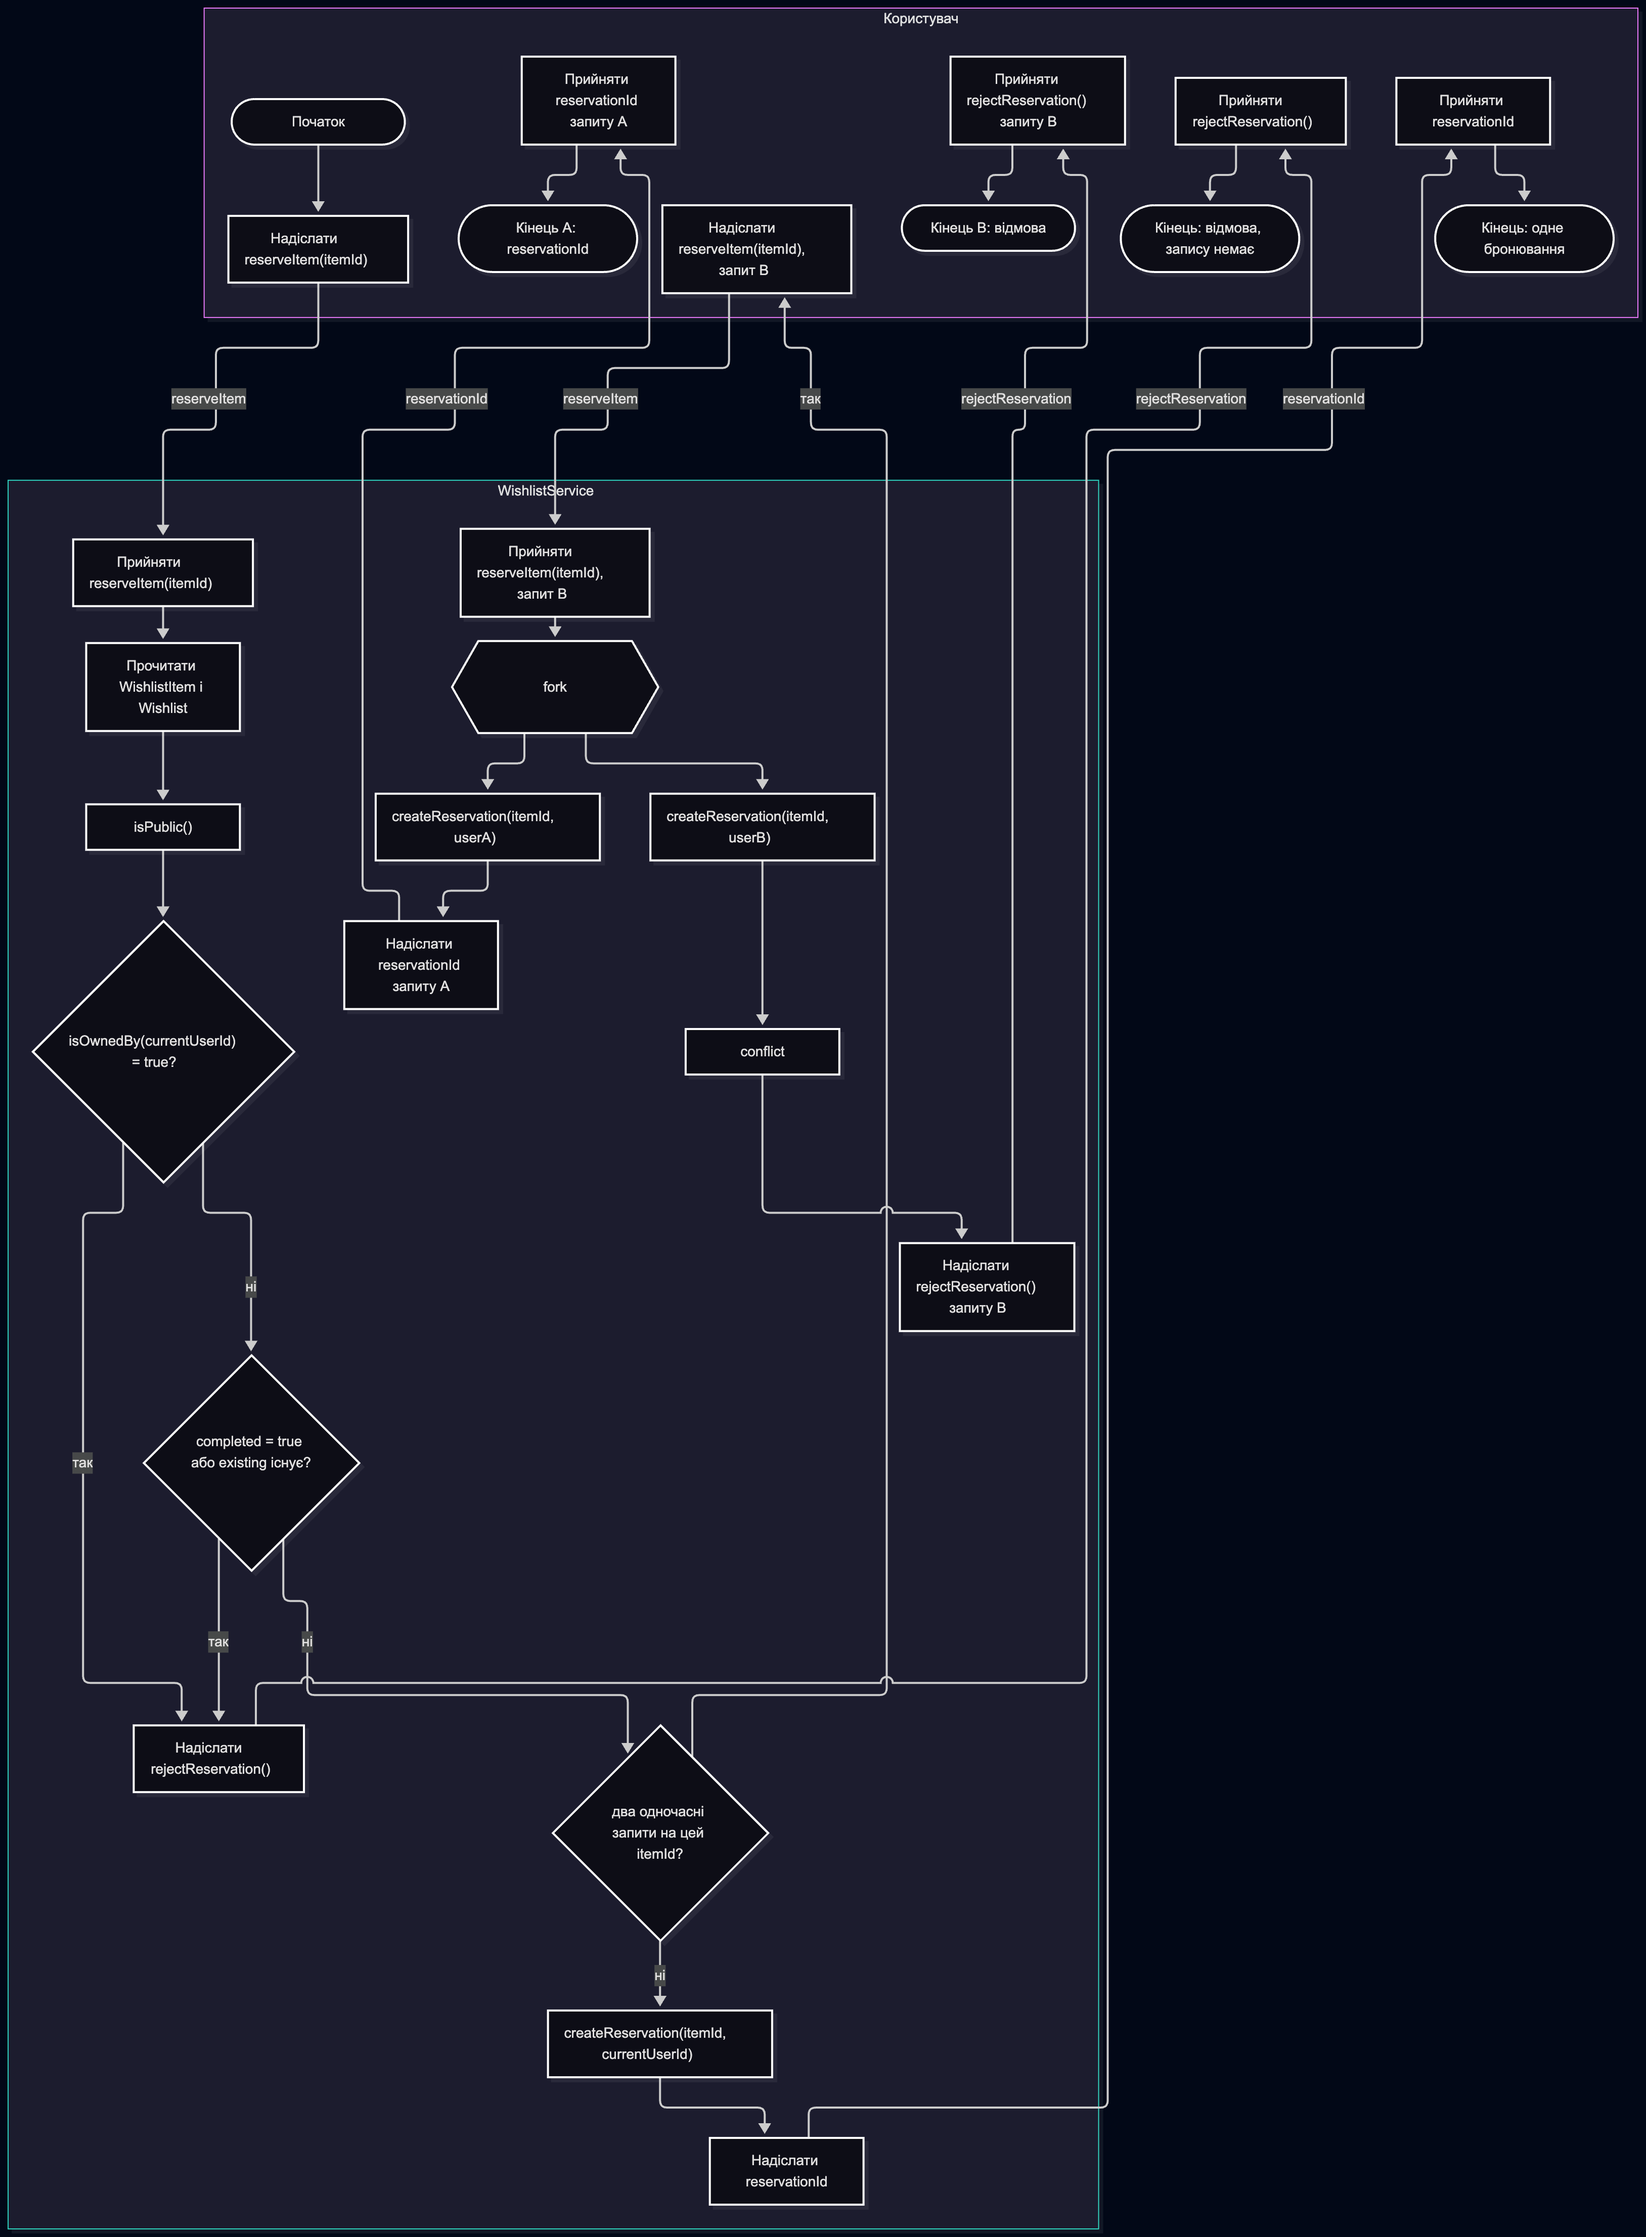
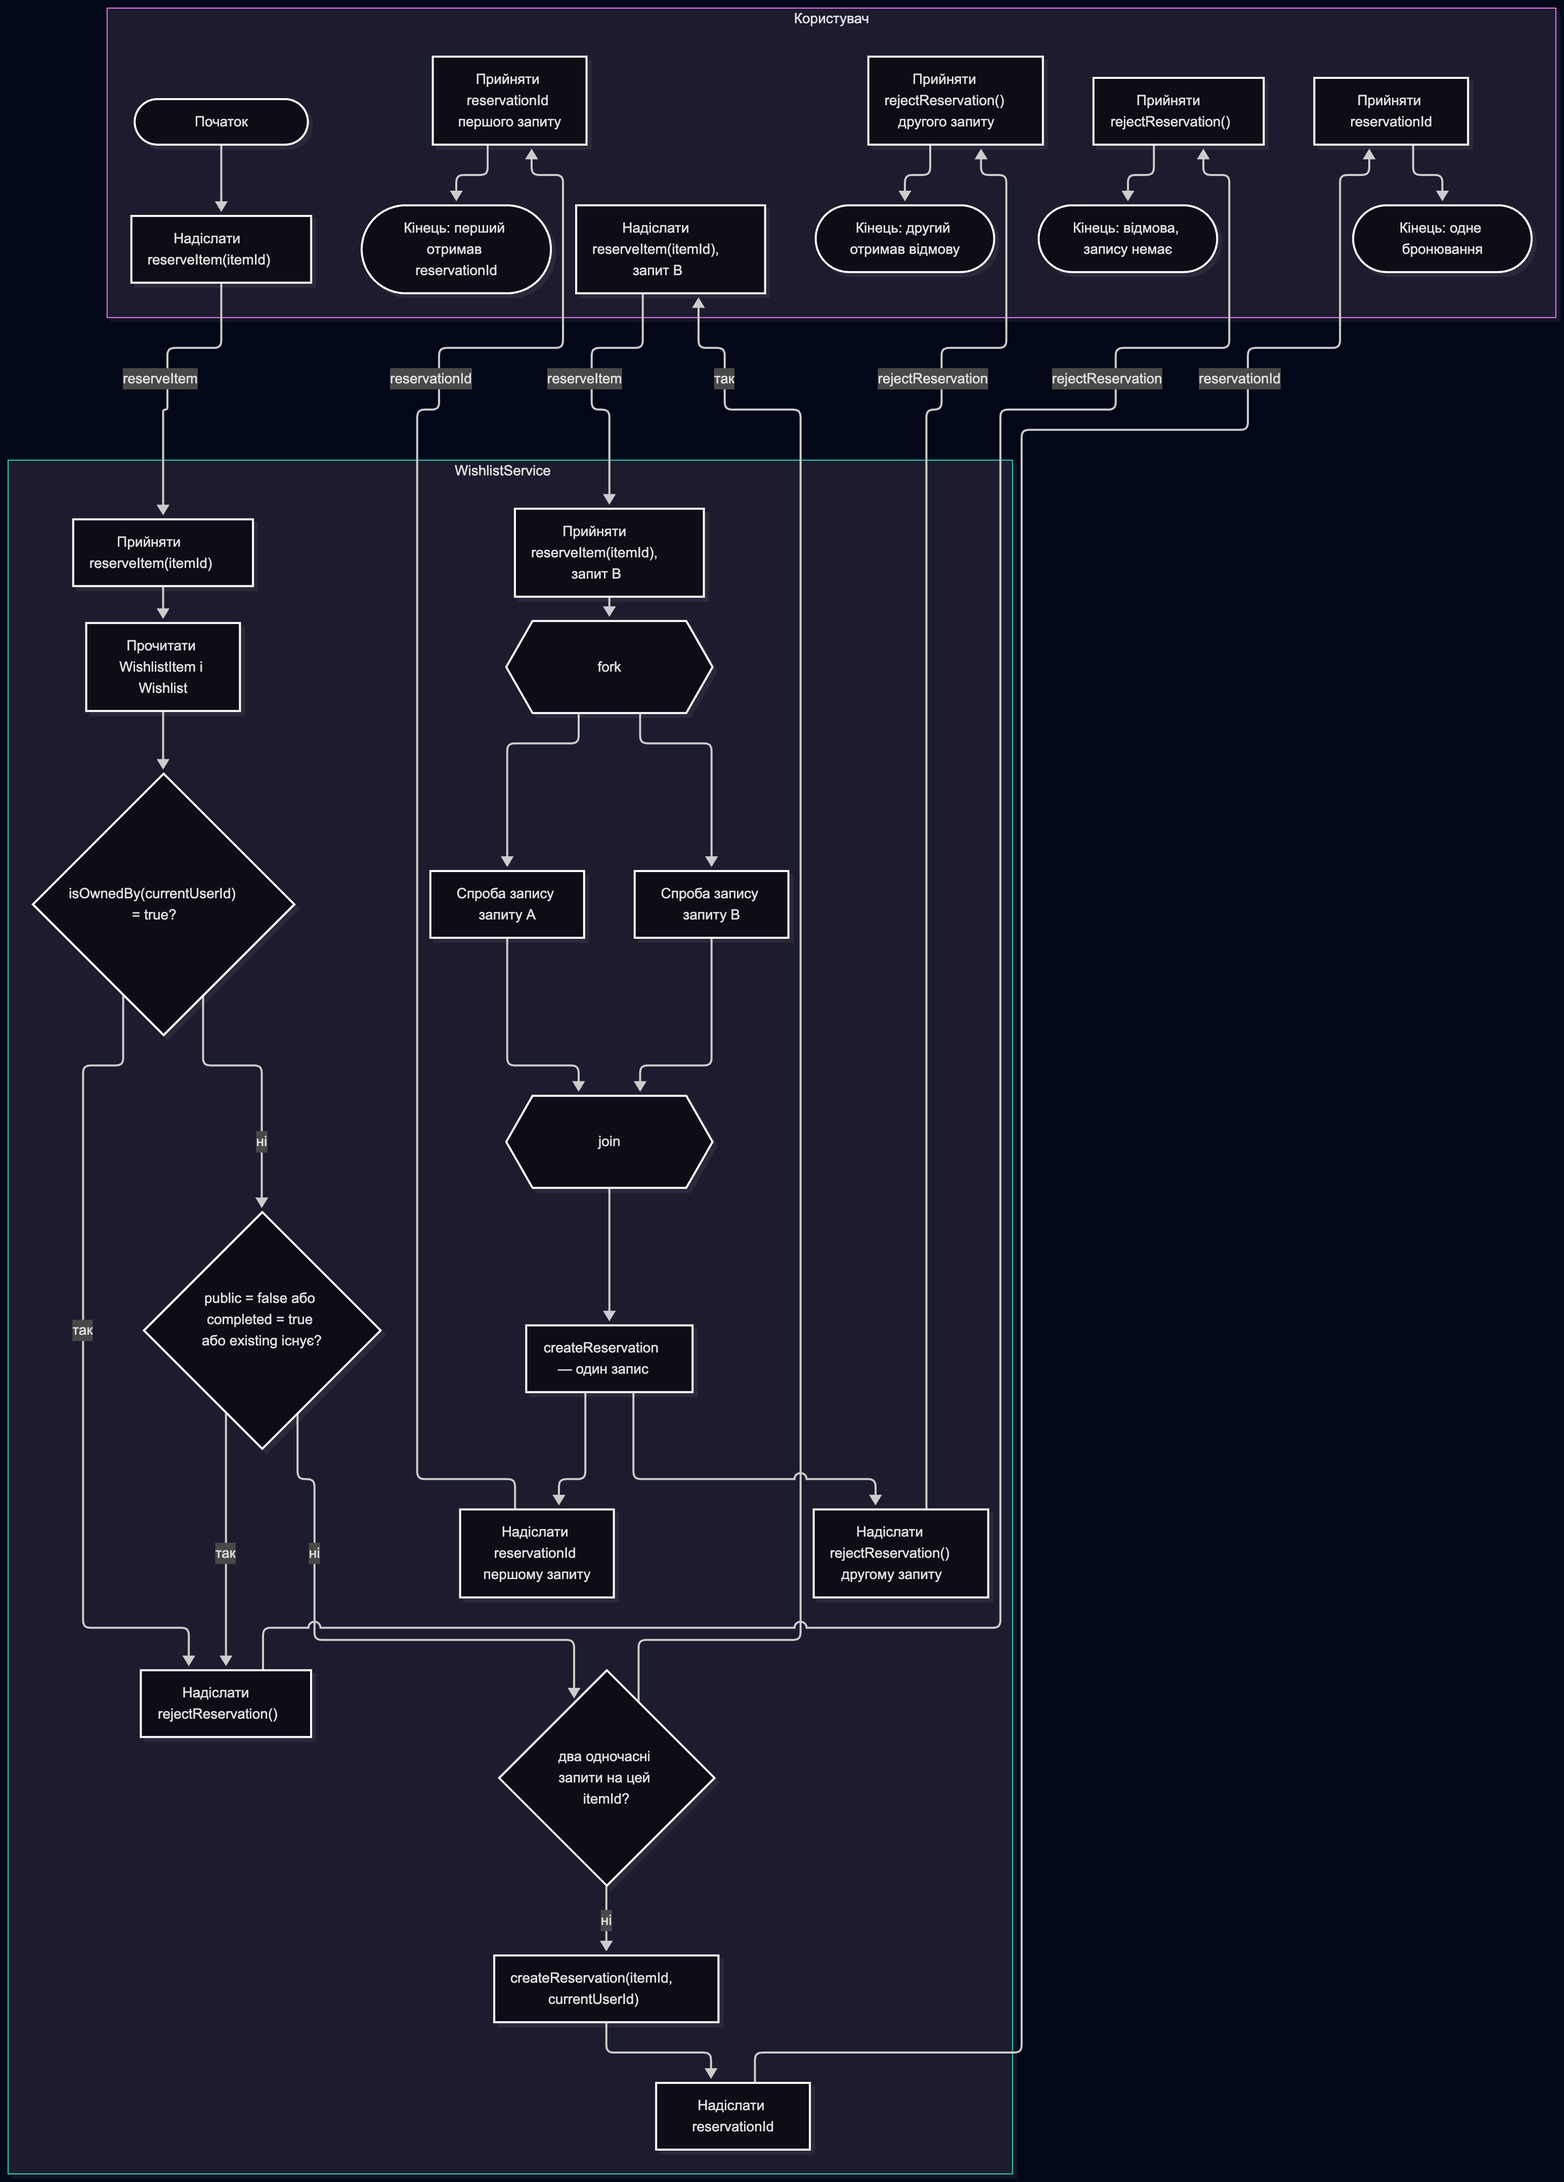
lab4: fix: join both reservation branches

diff --git a/lab4/reserve-item-activity.md b/lab4/reserve-item-activity.md
@@ -6,12 +6,12 @@ flowchart TD
     sendB["Надіслати reserveItem(itemId), запит B"]
     takeId["Прийняти reservationId"]
     takeNo["Прийняти rejectReservation()"]
-    takeIdA["Прийняти reservationId запиту A"]
-    takeNoB["Прийняти rejectReservation() запиту B"]
     endOk([Кінець: одне бронювання])
     endNo([Кінець: відмова, запису немає])
-    endA([Кінець A: reservationId])
-    endB([Кінець B: відмова])
+    takeIdA["Прийняти reservationId першого запиту"]
+    takeNoB["Прийняти rejectReservation() другого запиту"]
+    endA([Кінець: перший отримав reservationId])
+    endB([Кінець: другий отримав відмову])
   end
 
   subgraph serviceLane ["WishlistService"]
@@ -25,11 +25,12 @@ flowchart TD
     sendNo["Надіслати rejectReservation()"]
     sendId["Надіслати reservationId"]
     fork{{"fork"}}
-    createA["createReservation(itemId, userA)"]
-    createB["createReservation(itemId, userB)"]
-    conflictB["conflict"]
-    sendIdA["Надіслати reservationId запиту A"]
-    sendNoB["Надіслати rejectReservation() запиту B"]
+    attemptA["Спроба запису запиту A"]
+    attemptB["Спроба запису запиту B"]
+    join{{"join"}}
+    createRace["createReservation — один запис"]
+    sendIdA["Надіслати reservationId першому запиту"]
+    sendNoB["Надіслати rejectReservation() другому запиту"]
   end
 
   start --> sendA
@@ -44,8 +45,13 @@ flowchart TD
   sendId -->|reservationId| takeId --> endOk
   two -->|так| sendB
   sendB -->|reserveItem| takeReqB --> fork
-  fork --> createA --> sendIdA
-  fork --> createB --> conflictB --> sendNoB
+  fork --> attemptA
+  fork --> attemptB
+  attemptA --> join
+  attemptB --> join
+  join --> createRace
+  createRace --> sendIdA
+  createRace --> sendNoB
   sendIdA -->|reservationId| takeIdA --> endA
   sendNoB -->|rejectReservation| takeNoB --> endB
 
